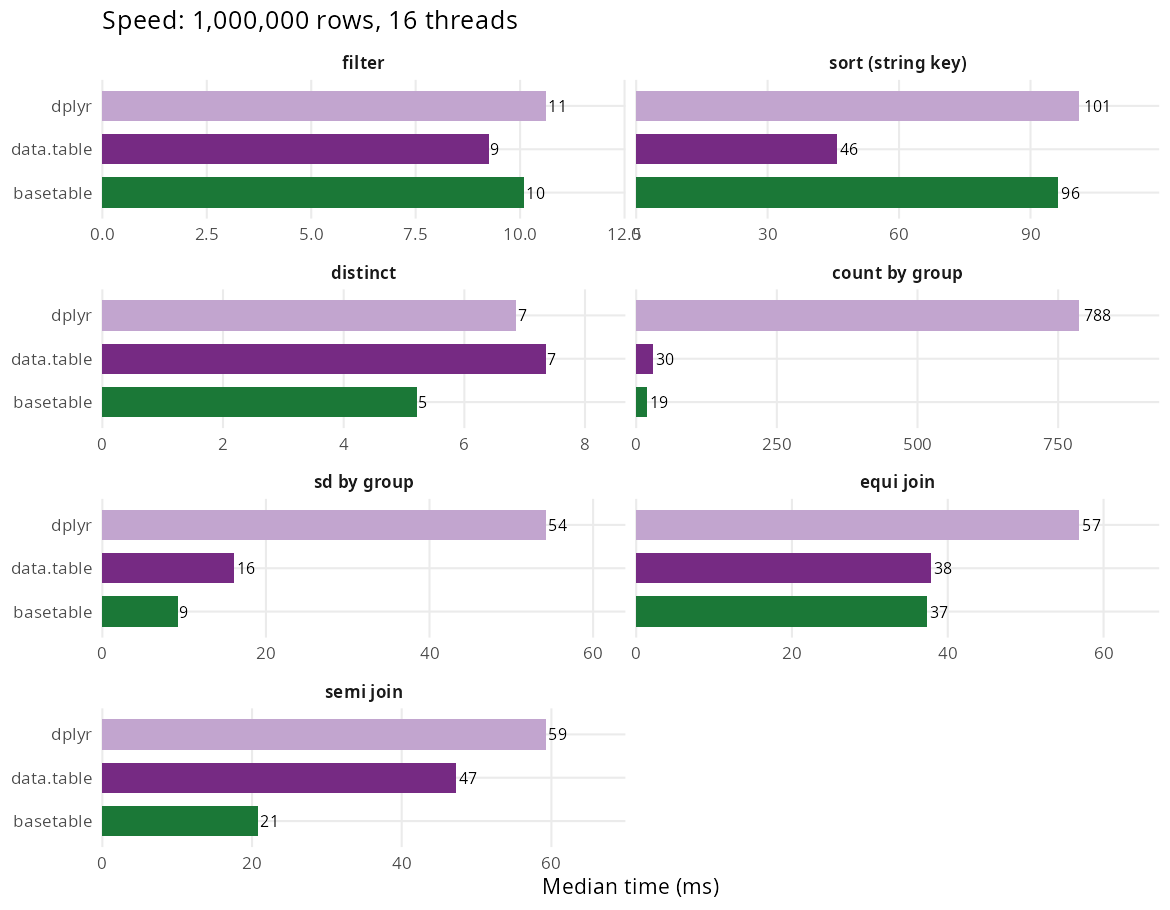
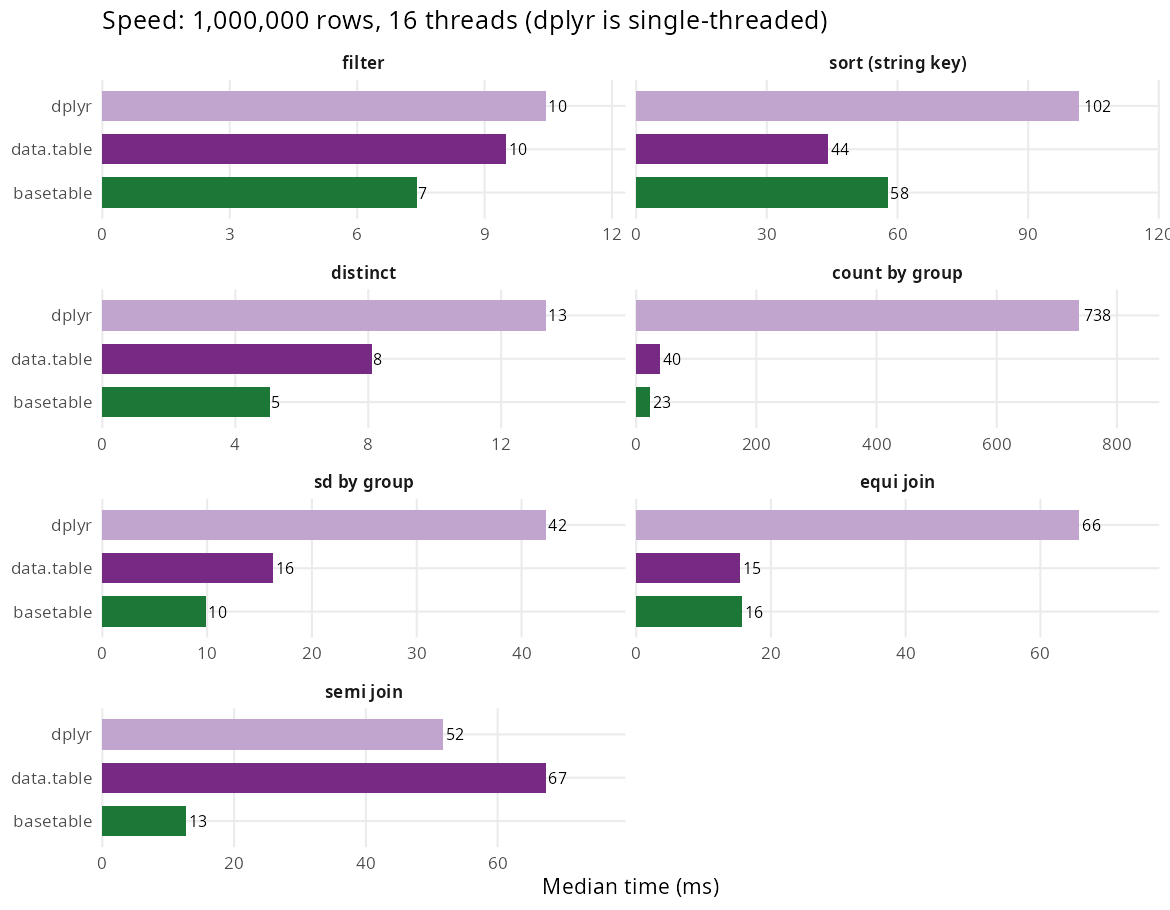
Benchmark data.table equi join at sort = FALSE; refresh README figures
merge(dt, dmt, by = "g") ran data.table with its default sort = TRUE, so it
sorted the 1e6-row result while basetable::merge() returned it in input
order -- not the same operation. Pin data.table to sort = FALSE in both the
README figure script and the Benchmarks vignette, and regenerate the README
table, figures and memory ranking from a clean run. On equal footing the two
engines are level on equi join (~15 ms); the refreshed numbers also pick up
the string-gather and filter-compaction work (filter now ahead of
data.table, string sort ~1.3x rather than ~2x).

diff --git a/README.md b/README.md
@@ -89,17 +89,20 @@ compared with `data.table` and `dplyr`.
 
 | Operation | basetable | data.table | dplyr | basetable mem | data.table mem | dplyr mem |
 | --- | ---: | ---: | ---: | ---: | ---: | ---: |
-| filter | 10 ms | 9 ms | 11 ms | 15 MB | 21 MB | 28 MB |
-| sort (string key) | 96 ms | 46 ms | 101 ms | 34 MB | 47 MB | 69 MB |
-| distinct | 5 ms | 7 ms | 7 ms | 0.02 MB | 20 MB | 12 MB |
-| count by group | 19 ms | 30 ms | 788 ms | 1 MB | 30 MB | 30 MB |
-| sd by group | 9 ms | 16 ms | 54 ms | 0.04 MB | 27 MB | 36 MB |
-| equi join | 37 ms | 38 ms | 57 ms | 42 MB | 42 MB | 101 MB |
-| semi join | 21 ms | 47 ms | 59 ms | 38 MB | 58 MB | 82 MB |
+| filter | 7 ms | 10 ms | 10 ms | 15 MB | 21 MB | 28 MB |
+| sort (string key) | 58 ms | 44 ms | 102 ms | 34 MB | 47 MB | 69 MB |
+| distinct | 5 ms | 8 ms | 13 ms | 0.03 MB | 20 MB | 12 MB |
+| count by group | 23 ms | 40 ms | 738 ms | 1 MB | 30 MB | 30 MB |
+| sd by group | 10 ms | 16 ms | 42 ms | 0.05 MB | 27 MB | 36 MB |
+| equi join | 16 ms | 15 ms | 66 ms | 8 MB | 8 MB | 101 MB |
+| semi join | 13 ms | 67 ms | 52 ms | 4 MB | 58 MB | 82 MB |
 
-`basetable` is faster than `data.table` on `distinct`, grouped `count`, `sd`
-by group and `semi join`, and edges it on `equi join` and `filter`. Against
-`dplyr` it is faster on every operation here, by more than 40x on
+(`equi join` pins `data.table` to `sort = FALSE`, matching `basetable::merge()`,
+which returns rows in input order.)
+
+`basetable` is faster than `data.table` on `filter`, `distinct`, grouped
+`count`, `sd` by group and `semi join`, and is level with it on `equi join`.
+Against `dplyr` it is faster on every operation here, by more than 30x on
 high-cardinality `count`. The one operation it loses is string `sort`.
 
 ### Memory, ranked by advantage
@@ -112,13 +115,13 @@ sets a floor.
 
 | Operation | basetable | data.table | dplyr | basetable vs data.table |
 | --- | ---: | ---: | ---: | ---: |
-| distinct | 0.02 MB | 20 MB | 12 MB | ~1000x less |
-| sd by group | 0.04 MB | 27 MB | 36 MB | ~600x less |
+| distinct | 0.03 MB | 20 MB | 12 MB | ~700x less |
+| sd by group | 0.05 MB | 27 MB | 36 MB | ~500x less |
 | count by group | 1 MB | 30 MB | 30 MB | ~30x less |
-| semi join | 38 MB | 58 MB | 82 MB | ~1.5x less |
+| semi join | 4 MB | 58 MB | 82 MB | ~15x less |
 | filter | 15 MB | 21 MB | 28 MB | ~1.4x less |
 | sort (string key) | 34 MB | 47 MB | 69 MB | ~1.4x less |
-| equi join | 42 MB | 42 MB | 101 MB | ~parity |
+| equi join | 8 MB | 8 MB | 101 MB | ~parity |
 
 These are R-level allocations as reported by `bench`. The C++ engine also
 uses `malloc`'d scratch buffers (radix keys, per-thread row-position
@@ -126,7 +129,7 @@ vectors) that `bench` does not count, so peak process memory during a sort
 or filter is higher than the figure above; `data.table` does the same.
 
 The one gap is **sorting**: `orderrows()` is a stable parallel radix, ~20x
-faster than base `order()`, but still ~2x of `data.table`, whose hand-tuned
+faster than base `order()`, but still ~1.3x of `data.table`, whose hand-tuned
 parallel radix is the one operation `basetable` does not match.
 
 ## Positioning

diff --git a/inst/benchmarks/benchmark-results.md b/inst/benchmarks/benchmark-results.md
@@ -4,22 +4,22 @@
 
 | Operation | basetable | data.table | dplyr | basetable mem | data.table mem | dplyr mem |
 | --- | ---: | ---: | ---: | ---: | ---: | ---: |
-| filter | 10 ms | 9 ms | 11 ms | 14.67 MB | 21.19 MB | 28.34 MB |
-| sort (string key) | 89 ms | 33 ms | 79 ms | 34.34 MB | 46.85 MB | 68.83 MB |
-| distinct | 4 ms | 6 ms | 5 ms | 0.02 MB | 19.59 MB | 12.02 MB |
-| count by group | 26 ms | 58 ms | 738 ms | 1.15 MB | 30.27 MB | 29.72 MB |
-| sd by group | 7 ms | 14 ms | 39 ms | 0.04 MB | 26.91 MB | 36.02 MB |
-| equi join | 39 ms | 38 ms | 52 ms | 41.97 MB | 41.96 MB | 101.08 MB |
-| semi join | 23 ms | 42 ms | 57 ms | 38.15 MB | 57.80 MB | 81.57 MB |
+| filter | 7 ms | 10 ms | 10 ms | 14.51 MB | 21.19 MB | 28.34 MB |
+| sort (string key) | 58 ms | 44 ms | 102 ms | 34.37 MB | 46.85 MB | 68.83 MB |
+| distinct | 5 ms | 8 ms | 13 ms | 0.03 MB | 19.59 MB | 12.02 MB |
+| count by group | 23 ms | 40 ms | 738 ms | 1.16 MB | 30.27 MB | 29.72 MB |
+| sd by group | 10 ms | 16 ms | 42 ms | 0.05 MB | 26.91 MB | 36.02 MB |
+| equi join | 16 ms | 15 ms | 66 ms | 7.64 MB | 7.63 MB | 101.08 MB |
+| semi join | 13 ms | 67 ms | 52 ms | 3.84 MB | 57.80 MB | 81.57 MB |
 
 ### Single thread (basetable and data.table pinned to 1)
 
 | Operation | basetable | data.table | dplyr | basetable mem | data.table mem | dplyr mem |
 | --- | ---: | ---: | ---: | ---: | ---: | ---: |
-| filter | 16 ms | 12 ms | 13 ms | 10.58 MB | 19.40 MB | 27.01 MB |
-| sort (string key) | 101 ms | 117 ms | 88 ms | 34.33 MB | 46.75 MB | 68.11 MB |
+| filter | 9 ms | 9 ms | 10 ms | 10.58 MB | 19.40 MB | 27.01 MB |
+| sort (string key) | 156 ms | 116 ms | 105 ms | 34.33 MB | 46.75 MB | 68.11 MB |
 | distinct | 5 ms | 18 ms | 7 ms | 0.02 MB | 19.18 MB | 11.85 MB |
-| count by group | 21 ms | 48 ms | 714 ms | 1.14 MB | 29.41 MB | 28.80 MB |
-| sd by group | 17 ms | 32 ms | 55 ms | 0.03 MB | 26.84 MB | 35.99 MB |
-| equi join | 83 ms | 59 ms | 50 ms | 41.96 MB | 41.96 MB | 100.60 MB |
-| semi join | 55 ms | 61 ms | 59 ms | 38.15 MB | 57.37 MB | 81.52 MB |
+| count by group | 21 ms | 36 ms | 752 ms | 1.14 MB | 29.41 MB | 28.80 MB |
+| sd by group | 17 ms | 26 ms | 43 ms | 0.03 MB | 26.84 MB | 35.99 MB |
+| equi join | 17 ms | 17 ms | 78 ms | 7.63 MB | 7.63 MB | 100.60 MB |
+| semi join | 55 ms | 49 ms | 43 ms | 3.81 MB | 57.37 MB | 81.52 MB |
